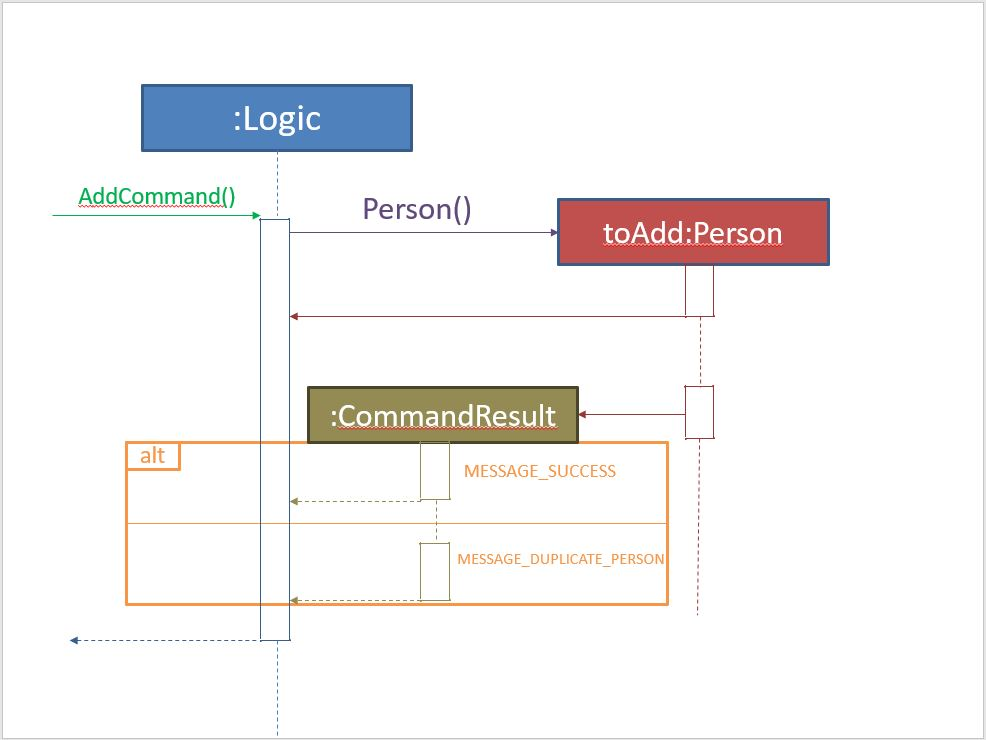
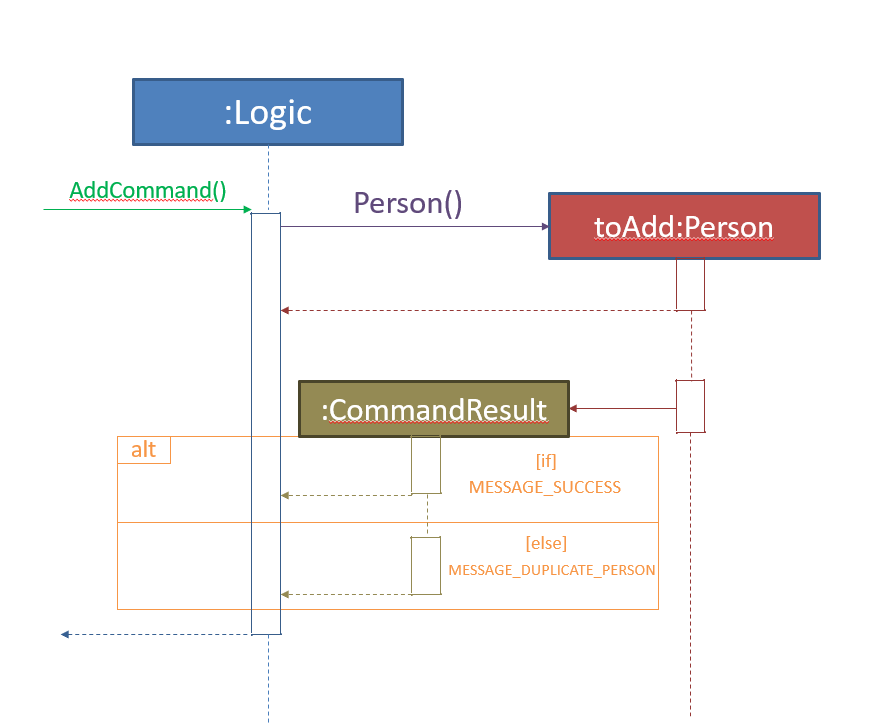
Edited addSequenceDiagram and changed visual aesthetics for UI.

diff --git a/src/seedu/addressbook/ui/DarkTheme.css b/src/seedu/addressbook/ui/DarkTheme.css
@@ -4,13 +4,13 @@
     -fx-font-size: 12pt;
     -fx-font-family: "Consolas";
     -fx-font-weight: bold;
-    -fx-text-fill: yellow;
-    -fx-control-inner-background: derive(#1d1d1d,20%);
+    -fx-text-fill: white;
+    -fx-control-inner-background: black;
 }
 
 .text-area {
-    -fx-background-color: black;
-    -fx-control-inner-background: black;
+    -fx-background-color: navy;
+    -fx-control-inner-background: grey;
     -fx-font-family: "Segoe UI Semibold";
     -fx-font-size: 10pt;
     -fx-padding: 5 5 5 5;

diff --git a/src/seedu/addressbook/ui/Gui.java b/src/seedu/addressbook/ui/Gui.java
@@ -31,7 +31,7 @@ public class Gui {
 
     public void start(Stage stage, Stoppable mainApp) throws IOException {
         mainWindow = createMainWindow(stage, mainApp);
-        mainWindow.displayWelcomeMessage(version, logic.getStorageFilePath());
+        mainWindow.displayWelcomeMessage(version, logic.getStorageFilePath()); //TODO add password message here
     }
 
     private MainWindow createMainWindow(Stage stage, Stoppable mainApp) throws IOException{
